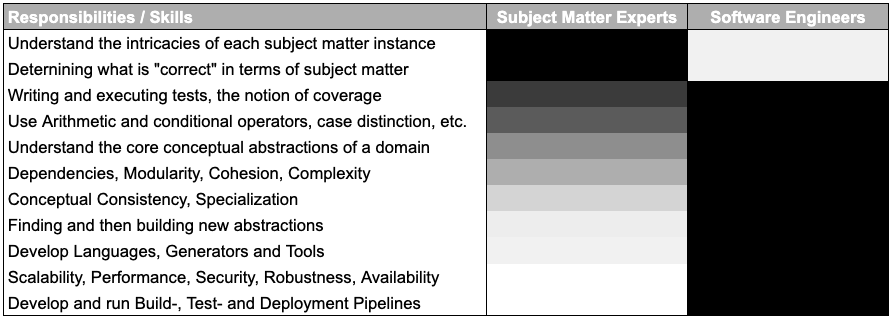
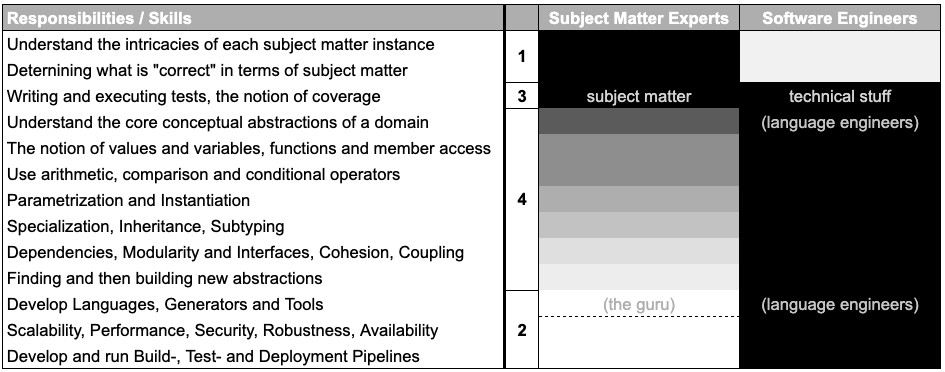
main section written

Changed region(s): [[0.0, 0.0, 0.9989, 1.0], [0.6357, 0.7925, 0.7265, 0.8491]]

diff --git a/doc.tex b/doc.tex
@@ -93,8 +93,8 @@ mathescape=false
 % to display URLs in blue roman font according to Springer's eBook style:
 % \renewcommand\UrlFont{\color{blue}\rmfamily}
 
-%\newcommand\parhead[1]{\vspace{1mm}\noindent\textbf{{#1}}\ \ }  
-%\newcommand\parheadX[1]{\vspace{-1.0mm}\noindent\textbf{{#1}}\ \ }  
+\newcommand\parhead[1]{\vspace{1mm}\noindent\textbf{{#1}}\ \ }  
+\newcommand\parheadX[1]{\vspace{-1.0mm}\noindent\textbf{{#1}}\ \ }  
 
 \newcommand{\toolurl}[1]{\footnote{\smaller\url{{#1}}\normalsize}}
 \newcommand{\ic}[1]{\changefont{cmtt}{m}{n}{#1}\normalfont}  % inline code
@@ -102,8 +102,6 @@ mathescape=false
 \newcommand{\fig}[1]{Fig. \ref{#1}}  % inline code
 \newcommand{\sect}[1]{Sec. \ref{#1}}  % inline code
 
-\newcommand\parheadX[1]{\noindent \colorbox{myGray1}{\textcolor{black}{\textsf{\textbf{\footnotesize {#1}}}}}}  
-\newcommand\parhead[1]{\vspace{3mm}\noindent \colorbox{myGray1}{\textcolor{black}{\textsf{\textbf{\footnotesize {#1}}}}}}  
 
 \newcommand\todo[1]{\vspace{1mm}\noindent\textbf{\color{red} {{TODO: {#1}} }}}  
 
@@ -181,18 +179,65 @@ transformations, plus robust execution platforms for the generated code.
 
 \section{(Where) Does this work?}
 
-\todo{Refer to Existing publications on DSL stuff to show this works}
+Building the necessary tooling and automation requires investment, and this
+investment must pay off for it to make economical sense. This is why the
+approach only works in domains that have the following characteristics. First,
+the subject matter that goes into the software has to have a minimum
+\textbf{size} and degree of \textbf{complicatedness}. Often this means that
+there are people in the company who consider themselves the \textbf{experts} in
+that subject matter. It's they who everybody asks about specifics in the domain.
+The second criterion is that this subject matter itself will remain
+\textbf{relevant over time} and that the business intends to stay in that domain
+for a reasonably long time. Finally, even though the subject matter as a whole
+is relevant for a long time, a degree of \textbf{evolution} or \textbf{variety}
+is usually needed. We have seen this approach used in the following domains, among others:
 
-\todo{Discuss my domain-suitability thing}
+\parhead{In insurances,} DSLs are used by insurance product definition staff to develop a
+variety of ever evolving insurance products. With increased differentiation
+between products, these become more and more complicated while at the same time
+increasing in variety. The company itself is in the insurance business for the
+long run. \todo{Zürich MPS Buch: https://blogs.itemis.com/en/the-business-dsl-zurich-insurance}
 
+\parhead{In healthcare,} DSLs are used by doctors and other healthcare
+professionals to develop digital therapeutics algorithms. The company wants to
+grow over a decade and develop many of these algorithms. The subject matter is
+large and complicated because it captures medical expertise. Details about
+the French-American company Voluntis see \todo{}
+
+\parhead{In public adminstration,} as government agencies, they are certainly in
+it for the long run, while legislation for public benfits and tax calculation
+changes and evolves regularly. The agencies are full of experts who interpret
+and understand the law. On the other side, the service providers who develop
+software for tax advisors has the same challenges and uses DSLs as well \todo{}
+
+\parhead{In payroll, }
+
+\vspace{3mm}
+
+\noindent Overview see the Details see \todo{InfoQ}
 
 \section{Can SMEs do that?}
 
-Do SMEs become programmers?
- 
+In my experience, based on the experiences mentioned above, plus a few more, the
+answer to the question in the title of this section, \emph{can they do that}, is
+a clear yes. At least this is true for the majority of subject matter experts I
+have worked with. But a key question is: to what extent do the subject matter
+experts who use our DSLs and tools have to become programmers? Do they have the
+\emph{skills} to be programmers (hint: most don't). Do they \emph{want} to
+become programmers (hint: most don't). But we still expect them to use
+``languages'' and IDE-like tools. So:
+
+\vspace{2mm}
+\noindent \textbf{Which parts of what we call programming do they have to learn?
+How is SME'ing different from programming, and where does it overlap?}
+\vspace{2mm}
+
+\noindent In the next section, the main part of this paper, I will try to provide some
+insight.
 
 \section{Difference between programming and SME'ing}
 
+\subsection{Skills and Responsibilities}
 
 \begin{figure}
 \begin{center}
@@ -201,6 +246,229 @@ Do SMEs become programmers?
     \label{table-respo}
 \end{center} 
 \end{figure} 
+
+\fig{table-respo} shows the differences in responsibilities of software
+develoeprs and SMEs. The darker the shade, the more responsibility the
+respective community has for that concern. Let's start our discussion
+with the two black and white cases, those where there is no overlap.
+There's probably no disagreement about these.
+
+\parhead{Region 1, SME only} Let's start with region 1, which is completely the
+responsibility of SMEs. They have to understand every particular example, case,
+situation, exception of the subject matter they are describing with the DSL.
+This is their natural responsibility, this is why they exist. SEs on the other
+side should not have to care at all. Again, this separation is the reason for
+using DSLs and tools in the first place. Related to this, the SMEs are also in
+charge of determining what consistutes correct behavior in the subject matter.
+They take responsibility for what should go into test cases.
+
+\parhead{Region 2, SE only} Let's move on to region 2, which is completely the
+responsibility of SEs.
+Building and operating automated CI pipelines that include building, packaging
+and running tests is nothing the SME should be concerned with, except maybe
+getting emails if tests fail (after they have run correctly in their local
+environment, otherwise they should never reach the CI server).
+ 
+The same is true for taking care of performance, scalability, 
+safety, security, robustness and availability, all the operational
+(aka non-functional) concerns of the final software system. Keeping the
+subject matter segregated from these technical aspects of software is
+a key benefit of the approach, and it is clear that this should be 
+handled in platforms, frameworks and code generators -- all clearly
+the domain of SEs.
+
+Finally, the development of the DSLs and tools that will then be used
+by the SMEs for capturing, analysing and experimenting with subject matter
+is the responsibility of software people. It might not be the domain of
+all of the software engineers, but maybe that of a certain specialization
+called language engineer. Also, a very few of the subject matter experts,
+we sometimes refer to them as gurus, of course have to help survey,
+understand, analyse and abstract the domain so that the language engineers
+can build the languages. But the regular SME, the dozens or hundreds
+that many of our customers employ, are not involved with this task.
+
+\parhead{Region 3, Testing} Let's now look at region 3, one that apparently has
+shared complete responsibility. It's a bit misleading. Indeed, both communities
+have to understand the purpose of testing, what a test case is, and appreciate
+the notion of coverage, i.e., understanding when they have enough tests to be
+(reasonably) sure that there are no more (reasonably few) bugs in the logic. But
+of course the SMEs care about this \emph{only} for subject matter (on DSL/model
+level) whereas the SEs care about it only in the platform, frameworks and
+generators. So they both have to understand the concept of testing, but there
+are no artifacts for which they have shared responsibility.
+
+\parhead{Region 4, shared skills} We are now ready to look at the interesting
+part, region 4. All of the things in this region are things that are completely
+at home in programming and software engineering. So SEs care. But they are also
+relevant, to different degrees, to SMES. Let's explore them in detail.
+
+Of course the SMEs have to understand the conceptual abstractions of the domain.
+Otherwise they cannot use the language.
+Understanding abstractions is not easy in general, but because in a DSL these
+abstractions are closely aligned with the subject matter, the subject matter
+experts -- in my experience -- are able to understand it. Maybe not every little
+detail (which is why the box is dark grey and not black) but sufficiently. The
+SEs have to understand these abstractions as well, especially the language
+engieneers. 
+
+A note: the fact that there is shared understanding about the core abstractions
+of the subject matter in which the SMEs and the SEs co-create software is a major
+reason why DSLs are so useful here. The language definition, and its conceptual
+cousins, the core abstractions, are a great unambiguous and clearly-scoped
+foundation for productive collaboration.
+
+No real-world subject-matter focused DSL I have every seen can be used or
+understood without understanding the notion of values, and some notion of
+functions. It doesn't matther whether we're talking specifically about (textual)
+functions, (Excel-style) decision tables or (graphical) dataflow diagrams. The
+good thing is that essentially everybody has come across these at school or
+at university, so this is usually not a huge challenge.
+
+Similarly, the understanding of dot expression to mean ``the member X of entity
+Y'' or ``do Z with entity Y'' is very hard to avoid, because working with parts
+of things or performing activities on things is almost unavoidable. For many
+SMEs, this is harder to get used to. We've experimented with literally writing
+\ic{member of object} instead of \ic{object.member} but this is hard to do 
+because of scoping. In the latter, you can easily scope the code completion
+menus to members of \ic{object} because you write the object first, whereas
+in the former case the code completion for the member has to show all members
+of all objects.
+
+Another set of constructs that is hard to do without is arithmetic, logcial
+and and comparison operators (together with types like number or Boolean), 
+again independent of their concrete syntax (text, symbol or graphical). Again,
+luckily, most SMEs remember those from school or university. So this is also
+not a big challenge. The same is true for the notion of a conditional, such
+as \ic{if \ldots then} or \ic{switch\{case, case, case\}}. 
+
+The reason why these two lines are grey for SMEs and not totally black is
+because the complexity in the expressions built with these language concepts
+should (and usually can) be kept lower for SMEs. For example, for complicated
+decisions, we can support graphical decision tables of various forms which are
+much easier to grasp then nested \ic{if} statements and the like. 
+
+Several of the DSLs I have built require an understanding of the notion of
+parametrization. For example, in a function-like thing, the values passed into
+the call are mapped (by position or by name) to formal arguments that are then
+processed in the body of the function. Most SMEs have no problems with this
+-- again, school experience -- but some do. In my experience this is the 
+threshold where the need for education and training starts (beyond building
+the shared understanding about the core concepts of a domain). A related
+concept is the notion of instantiation, where, usually, the instance has
+independent values for its state and its evolution. This is not taught in
+school, and it's not taught outside of computer science at university, so
+training is needed. On the other hand, many DSLs don't need this, which is
+why this box is a lighter shade of gray.
+
+We're getting to more advanced concepts that are harder to grasp for many SMEs,
+but they are also not necessary in all DSLs (though unavoidable in some
+domains). The notion of specialization or subtyping is key here. While everybody
+understand subtyping intuitively (``an eagle \emph{isa} bird \emph{isa} animal
+\emph{isa} living thing \emph{isa} object''), many SMEs struggle with the
+consequences. Especially the mental assembly of everything that's in a subtype
+by (mentally) going through all its supertypes is hard: ``we're not seeing
+the big picture'' is what I often hear. Practice helps, but so can tools that
+optionally show all the inherited stuff inline in the subtype's definition.
+
+For complex subject matter -- the tax stuff comes to mind -- the models created
+with the DSLs become larger, and complexity often rises along with the size.
+Notions like reduction of unnecessary dependencies, module boundaries,
+interfaces, and more generally, cohesion and coupling become an issue. Most SMEs
+struggle here. But on the other hand, 95\% of the work of an SME can proceed
+without caring about these things, except during initial design or downstream
+review phases, where SE or guru involvement is often needed so sort things out.
+
+The final ingredient in region 4 is discovering and then defining new
+abstractions. Usually not the strong suit of SMEs. Those that are able to
+do this are usually the gurus we talked about before, or they have been
+assimilated wholly but the software development team. But luckily it is
+quite rare that SMEs are required to define new abstractions, because those
+that are relevant should be available first-class in the DSL -- or retrofitted
+for the next version once the need becomes obvious. 
+ 
+
+\todo{state machines}
+\todo{funclerative}
+\todo{Code duplication}
+
+\begin{figure}
+\begin{center}
+    \includegraphics[width=1\columnwidth]{figures/table-prefs.png}
+    \caption{}
+    \label{table-prefs}
+\end{center} 
+\end{figure} 
+
+\subsection{Different Emphasis}
+
+In my experience, (most) SMEs prioritize the features of languages and IDEs differently
+from (most) developers. In this section we'll look at some of the more prominenet differences.
+\fig{table-prefs} summarizes the differences.
+
+\parhead{Notation} Developers prefer textual notations, both for its
+conciseness, but also for its homogeneity with regards to storing, editing,
+diffing and merging programs. SMEs tend to emphasize readability and fit of
+the notation with establised representations in the domain (e.g., tables in
+the tax law documents) over these efficiency concerns. Therefore, if you can
+build DSLs that are more diverse in notation -- and not just colored text with
+curly braces and nesting -- SME buy-in is usually easier to get.
+
+\parhead{Selecting vs. Creating} Developers love the creative freedom of coming
+up with an algorithm, crafting their own suitable abstractions from small,
+flexible building blocks. SMEs -- including because of their often limited
+abstraction skills -- prefer picking from options, selecting alternatives.
+In my experience it is ok for them if they have to read a bit more documentation
+that (hopefully!) explains what the different options or alternatives mean.
+So DSLs often rely on first-class concepts for the various needs of the domain,
+even if this requires the users to first understand what these mean
+specifically. In contrast, programming languages emphasize orthogonality and
+flexibility of their first-class concepts. \todo{Talk abt benefits for
+notation and anaylses}.
+
+\parhead{Guidance} A related topic is guidance. Developers are happy with
+opening an empty editor and starting to write code. Code completion guides
+them a little bit. SMEs prefer more guidance, almost to the point where 
+template-models are pre-created after selection from a menu. DSLs that feel
+like a mix between a form-based application and program code seem to be 
+particularly appreciated in many contexts.
+
+\parhead{Tool Support} Thinking this further, SEs prefer a toolbox approach
+to tooling: the tool gives you 5 million different tools to do things. It's
+the developer's job to use the tool at the right time, in the right way.
+SMEs are more use-case oriented. They want tool support for their typical
+process steps, and specific tool support for them. We have built DSLs that
+included wizard-like functionality in the IDE where using the wizard required
+more input gestures than just code-completion supported typing. Still the
+wizard was preferred by the SMEs.
+ 
+\parhead{Thinking about problems} It's almost a defining feature of programmers
+that they think about a problem (and its solution) as a complete algorithm
+that can cover all possible execution paths. Sure, tests then validate 
+specific scenarios, but developers \emph{think} in algorithms. SMEs often
+think in terms of examples first, and sometimes only. For example, it is easier
+for them to deal with a (hopefully complete) set of sequence diagrams rather
+than with a state machine. In terms of DSL design this means that more
+emphasis on case distinction where the various scenarios can be specified
+separately (even if this incurs a degree of code duplication) is often 
+a good idea.
+
+\parhead{Validation} Most developers are good at writing tests, writing
+them against APIs on a relatively small unit size, and then running these
+tests automatically all the time. SMEs often think of validation more in
+terms of ``playing with the system''. They prefer ``simulation GUIs'' over
+writing repeatable tests as (a different kind of) program. So build those
+simulators first, and then allow the simulator to record ``play sessions''
+and persist them as generated test cases for downstream reexecution.
+
+\parhead{Recipe vs. Execution} A program is a recipe which, when combined
+with input data, behaves in a particular way. That behavior depends on the
+input data. So whenever SEs write code, they continuously imagine (and sometimes
+try our or trace with the debugger) how the program behaves for (all possible
+combinations of) input data. Many SMEs are not very good (practiced) at doing
+this. One reason why Excel is so popular is because it does not make this
+distinction between program and data: the program always runs (or, alternatively,
+a spreadsheet never runs, it just ``is''). So anything from the universe of
+live programming is helpful.
 
 
 \section{Where and how to learn}
